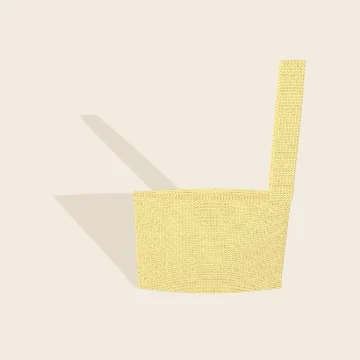
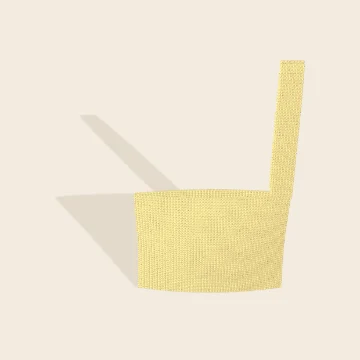
Knitted pieces on a body drawn as knitting (Kim: 실제 니트처럼, 시안 A) and the knit top's round neck
- the 3D of a piece worn on a stand drew every stitch as crochet; a knitted course is now drawn as stockinette:
  each stitch its V, two legs from its head down to the middle of the stitch below so the V's stack in columns,
  the yarn spread to fill the stitch; 겉 1 안 1 rib with the purl stitches as bumps across, set back
- 위에서부터 뜨는 니트 탑: 둥근 목선 (Kim) - the front's last neck rows each gain a stitch at both neck edges before
  the middle is cast on, and a 1 x 1 rib neckband is picked up all round; in the 3D the first rows lie over the
  shoulders and turn down the back and the front, the body hangs straight from the bust, the sleeves start as
  an upright oval filling the armhole, the stand raised on a pole so the hem hangs above the table
- 접어 만드는 대바늘 가방: knitted rows; its cast-on row no longer tied to the fold (a fringe at the top)
- new card photos for both

diff --git a/src/features/yarn3d/worn.ts b/src/features/yarn3d/worn.ts
@@ -215,7 +215,8 @@ function kerchiefForm(p: PlanInput, pp: Plan): Worn {
  *  shoulders, a neck */
 const TORSO: [number, number][] = [[.9, -2.3], [.92, -1.8], [.8, -1.05], [.78, -.8], [.88, -.3], [1, 0], [.97, .3], [.87, .7], [.66, 1.05], [.36, 1.22], [.29, 1.4], [.28, 1.75]];
 export function torsoProfile(r: number, bust: number): [number, number][] {
-  const out: [number, number][] = [[0, Math.max(0, bust + TORSO[0][1] * r)]];
+  // (raised for a long top: a foot and a pole under the hips, as a dress form stands)
+  const yb = Math.max(0, bust + TORSO[0][1] * r), out: [number, number][] = yb > 1.5 ? [[0, 0], [r * .5, 0], [r * .5, .6], [r * .07, 1.2], [r * .07, yb - .2], [0, yb]] : [[0, yb]];
   for (let i = 0; i + 1 < TORSO.length; i++) for (let k = 0; k < 4; k++) { const t = k / 4, a = TORSO[i], b = TORSO[i + 1], s = t * t * (3 - 2 * t); out.push([r * (a[0] + (b[0] - a[0]) * s), Math.max(0, bust + (a[1] + (b[1] - a[1]) * t) * r)]); }
   const last = TORSO[TORSO.length - 1]; out.push([r * last[0], bust + last[1] * r], [0, bust + (last[1] + .04) * r]);
   return out;
@@ -319,17 +320,19 @@ function hull2(pts: [number, number][]): [number, number][] {
 /** the body's section at a height, `off` out from it: walked along from the back (s = 0) towards +x, the front,
  *  -x; a point at `s`, its outward normal, and where an angle (0 the back, as ring() counts) falls */
 interface Sec { L: number; at: (s: number) => [number, number]; nrm: (s: number) => [number, number]; sAt: (a: number) => number }
-function sectionOf(B: Body, y: number, off: number): Sec {
-  const R = torsoR(B.r, B.bust, y), raw: [number, number][] = [];
-  for (let i = 0; i < 120; i++) {
-    const a = i / 120 * TAU, dx = Math.sin(a), dz = -Math.cos(a); let t = R / Math.hypot(dx / TSX, dz / TSZ);
-    for (const [bx, by, bz, rx, ry, rz] of B.bumps) {
-      const f2 = 1 - ((y - by) / ry) ** 2; if (f2 <= 0) continue; const a2 = rx * rx * f2, c2 = rz * rz * f2;
-      const qa = dx * dx / a2 + dz * dz / c2, qb = -2 * (dx * bx / a2 + dz * bz / c2), qc = bx * bx / a2 + bz * bz / c2 - 1, disc = qb * qb - 4 * qa * qc;
-      if (disc > 0) t = Math.max(t, (-qb + Math.sqrt(disc)) / (2 * qa));
-    }
-    raw.push([dx * (t + off), dz * (t + off)]);
+/** how far out from the axis the body's surface is at a height, along a level direction (dx, dz) */
+function rayT(B: Body, y: number, dx: number, dz: number): number {
+  let t = torsoR(B.r, B.bust, y) / Math.hypot(dx / TSX, dz / TSZ);
+  for (const [bx, by, bz, rx, ry, rz] of B.bumps) {
+    const f2 = 1 - ((y - by) / ry) ** 2; if (f2 <= 0) continue; const a2 = rx * rx * f2, c2 = rz * rz * f2;
+    const qa = dx * dx / a2 + dz * dz / c2, qb = -2 * (dx * bx / a2 + dz * bz / c2), qc = bx * bx / a2 + bz * bz / c2 - 1, disc = qb * qb - 4 * qa * qc;
+    if (disc > 0) t = Math.max(t, (-qb + Math.sqrt(disc)) / (2 * qa));
   }
+  return t;
+}
+function sectionOf(B: Body, y: number, off: number): Sec {
+  const raw: [number, number][] = [];
+  for (let i = 0; i < 120; i++) { const a = i / 120 * TAU, dx = Math.sin(a), dz = -Math.cos(a), t = rayT(B, y, dx, dz); raw.push([dx * (t + off), dz * (t + off)]); }
   const h = hull2(raw).map(q => ({ q, a: (Math.atan2(q[0], -q[1]) + TAU) % TAU })).sort((u, v) => u.a - v.a), n = h.length, cum = [0];
   for (let i = 0; i < n; i++) { const a = h[i].q, b = h[(i + 1) % n].q; cum.push(cum[i] + Math.hypot(b[0] - a[0], b[1] - a[1])); }
   const L = cum[n];
@@ -571,13 +574,14 @@ function knitFoldForm(p: PlanInput, pp: Plan): Worn {
   const g = pp.g, B = knitFold(p, g), out: FormCourse[] = [], R = B.L / 2, c = B.W * g.w, y0 = .45, rise = g.h * .98, top = y0 + R * rise;
   const bow = (t: number) => .07 + .36 * Math.sin(Math.PI * Math.min(1, t * .85 + .1));
   const rowAt = (j: number, side: number, n = B.W, from = 0) => { const th = bow((j + .5) / R), rad = c / (2 * th), q: number[] = []; for (let k = from; k < from + n; k++) { const ph = -th + (k + .5) / B.W * 2 * th; q.push(rad * Math.sin(ph), y0 + (j + .5) * rise, side * (rad * (Math.cos(ph) - Math.cos(th)) + .25)); } return q; };
-  out.push({ p: rowAt(0, 1).map((v, i) => (i % 3 === 1 ? y0 : v)), on: -1, ghost: true, cen: [0, top / 2, 0] });
+  // (the panel starts at the front's top - its cast-on row stands on nothing just above it)
+  out.push({ p: rowAt(R - 1, 1).map((v, i) => (i % 3 === 1 ? v + rise : v)), on: -1, ghost: true, cen: [0, top / 2, 0] });
   // the fold is the bottom: the front's rows from it up, then the back's (worked on from the front's last row in the panel; drawn here as they hang)
-  for (let i = 0; i < 2 * R; i++) { const front = i < R, j = front ? R - 1 - i : i - R; out.push({ p: rowAt(j, front ? 1 : -1), on: out.length - 1, cen: [0, y0 + (j + .5) * rise, 0] }); }
+  for (let i = 0; i < 2 * R; i++) { const front = i < R, j = front ? R - 1 - i : i - R; out.push({ p: rowAt(j, front ? 1 : -1), on: out.length - 1, cen: [0, y0 + (j + .5) * rise, 0], kn: "st" }); }
   // the strap: K stitches at the right end, from the front over the side to the back
   const last = out.length - 1, edge = out[last].p, deep = Math.max(.6, Math.abs(edge[Math.floor(B.W / 2) * 3 + 2])), xr = edge[(B.W - 1) * 3], A = archOf(deep + .4, B.SR * g.h);
   let on = last;
-  for (let i = 0; i < B.SR; i++) { const [u, v] = A.at((i + .5) / B.SR * A.len), q: number[] = []; for (let k = 0; k < B.K; k++) q.push(xr - k * g.w, top + v, u); out.push({ p: q, on, cen: [xr - B.K * g.w / 2, top - 3, 0] }); on = out.length - 1; }
+  for (let i = 0; i < B.SR; i++) { const [u, v] = A.at((i + .5) / B.SR * A.len), q: number[] = []; for (let k = 0; k < B.K; k++) q.push(xr - k * g.w, top + v, u); out.push({ kn: "st", p: q, on, cen: [xr - B.K * g.w / 2, top - 3, 0] }); on = out.length - 1; }
   return { courses: out, stand: null, size: [c, 2 * deep, B.h], key: "" };
 }
 /** 위에서부터 뜨는 니트 탑 (Kim: 어깨 경사를 따라, 흐물거리는 편물): on a body, the back's rows down its back from
@@ -586,21 +590,37 @@ function knitFoldForm(p: PlanInput, pp: Plan): Worn {
  *  hem following the body, the ease in soft folds; each sleeve from the shoulder point, down and a little out,
  *  narrowing to its cuff. */
 function knitTopForm(p: PlanInput, pp: Plan): Worn {
-  const g = pp.g, K = knitTop(p, g), out: FormCourse[] = [], r = Math.max(6, K.bust / 6.15), bust = 2.3 * r + 1, body = bodyOf(r, bust), off = .7;
+  // (the body stands high enough for the top's whole length to hang above the table)
+  const g = pp.g, K = knitTop(p, g), out: FormCourse[] = [], r = Math.max(6, K.bust / 6.15), below = pp.rows.filter(x => (x.part === "body" || x.part === "rim") && !/^목둘레/.test(x.label)).length;
+  const bust = Math.max(2.3 * r + 1, K.AR * g.h * .95 + below * g.h + 2 - 1.04 * r), body = bodyOf(r, bust), off = .7;
   const panel = pp.rows.filter(x => x.part === "panel" && x.n > 0 && /단$/.test(x.label)), shTop = bust + 1.04 * r, rh = g.h * .95;
   // a panel's row: its middle at the back (a = 0) or the front (a = PI), on the body from side to side; wider than
   // that it lies looser, in soft folds (`gap`: the front's neck, stitches left out at its middle)
   let reach = 0;
-  const panelRow = (n: number, y: number, a: number, gap = 0): number[] => {
-    const S = sectionOf(body, y, off), s0 = S.sAt(a), dir = a === 0 ? 1 : -1, sR = S.sAt(Math.PI / 2), sL = S.sAt(3 * Math.PI / 2);
-    const lim = Math.min(a === 0 ? sR - s0 : s0 - sR, a === 0 ? s0 + S.L - sL : sL - s0), half = (n + gap) * g.w / 2, c = Math.min(1, lim / half), A = foldDepth(1 / c, 3, 2 * lim, 1.2), q: number[] = [];
+  // (the first rows lie over the top of the shoulders - the shoulder line from the neck out to the shoulder's
+  // tip - and turn down the back or the front row by row, as a yoke sits; the neck is the neck's own width)
+  const neckR = .36 * r + off, TT = Math.max(2, .55 * r / rh);
+  const panelRow = (n: number, y: number, a: number, gap = 0, row = -1): number[] => {
+    const q0 = panelOn(n, y, a, gap), sz = a === 0 ? -1 : 1, t = Math.min(1, Math.max(0, (row + .5) / TT)), sm = t * t * (3 - 2 * t), q: number[] = [];
+    for (let k = 0; k < q0.length; k += 3) {
+      const x = q0[k], ax = Math.abs(x), zt = ax < neckR ? sz * Math.sqrt(neckR * neckR - ax * ax) : sz * .03 * r, yt = bust + 1.1 * r + .4 - Math.max(0, ax - neckR) * .12;
+      // (on the body, never through it: a point the blend put inside the shoulder is pushed out to its surface)
+      const yy = yt + (q0[k + 1] - yt) * sm, zz = zt + (q0[k + 2] - zt) * sm, d = Math.hypot(x, zz) || 1e-6, need = rayT(body, yy, x / d, zz / d) + off * .8, f = d < need ? need / d : 1;
+      q.push(x * f, yy, zz * f);
+    }
+    return q;
+  };
+  const panelOn = (n: number, y: number, a: number, gap = 0): number[] => {
+    const S = sectionOf(body, Math.max(y, bust), off), s0 = S.sAt(a), dir = a === 0 ? 1 : -1, sR = S.sAt(Math.PI / 2), sL = S.sAt(3 * Math.PI / 2);
+    const lim = Math.min(a === 0 ? sR - s0 : s0 - sR, a === 0 ? s0 + S.L - sL : sL - s0), half = (n + gap) * g.w / 2, c = Math.min(1, lim / half), A = 0, q: number[] = [];
     for (let k = 0; k < n; k++) {
       const kk = gap && k >= n / 2 ? k + gap : k, u = (kk - (n + gap - 1) / 2) * g.w * c, [x, z] = S.at(s0 + dir * u), [nx, nz] = S.nrm(s0 + dir * u), d = A * (1 + Math.cos(u / Math.max(1, lim) * 3 * Math.PI)) / 2;
       reach = Math.max(reach, Math.abs(x)); q.push(x + nx * d, y, z + nz * d);
     }
     return q;
   };
-  let under = shTop;
+  let under = shTop, backTop: number[] = [], frontMid: number[] = [];
+  const edgeL: number[][] = [], edgeR: number[][] = [];
   for (const [name, a] of [["뒤판", 0], ["앞판", Math.PI]] as const) {
     const rows = panel.filter(x => x.label.startsWith(name)), front = a !== 0;
     out.push({ p: panelRow(rows[0]?.n ?? K.T, shTop + rh * .5, a), on: -1, ghost: true, cen: [0, shTop, 0] });
@@ -609,22 +629,24 @@ function knitTopForm(p: PlanInput, pp: Plan): Worn {
       const y = shTop - (i + .5) * rh; under = Math.min(under, y - rh * .5);
       // 앞판의 목: the two shoulders worked side by side over the neck's rows - two pieces, nothing across the neck
       if (front && i < K.ND) {
-        const q = panelRow(x.n, y, a, K.neck), h = q.length / 2;
-        out.push({ p: q.slice(0, h), on: L, cen: [0, y, 0] }); L = out.length - 1; out.push({ p: q.slice(h), on: R, cen: [0, y, 0] }); R = out.length - 1;
+        const q = panelRow(x.n, y, a, K.neck, i), h = q.length / 2;
+        out.push({ p: q.slice(0, h), on: L, cen: [0, y, 0], kn: "st" }); L = out.length - 1; out.push({ p: q.slice(h), on: R, cen: [0, y, 0], kn: "st" }); R = out.length - 1;
+        edgeL.push(q.slice(h - 3, h)); edgeR.push(q.slice(h, h + 3));
         if (i === K.ND - 1) { out.push({ p: q, on: -1, ghost: true, cen: [0, y, 0] }); L = R = out.length - 1; }
         return;
       }
-      out.push({ p: panelRow(x.n, y, a), on: L, cen: [0, y, 0] }); L = R = out.length - 1;
+      const q = panelRow(x.n, y, a, 0, i); out.push({ p: q, on: L, cen: [0, y, 0], kn: "st" }); L = R = out.length - 1;
+      if (!front && i === 0) backTop = q; if (front && i === K.ND) frontMid = q;
     });
   }
-  // the body round by round from the underarm down, the hem's rib at its foot: on the body, its ease in folds
-  const rows = pp.rows.filter(x => x.part === "body" || x.part === "rim");
-  out.push({ p: clothRing(body, under + g.h * .5, K.N, g.w, off), on: -1, ghost: true, cen: [0, under, 0] });
-  rows.forEach((x, i) => { const y = under - (i + .5) * g.h; out.push({ p: clothRing(body, y, x.n, g.w, off, i * .04, y, 6), closed: true, on: out.length - 1, cen: [0, y, 0] }); });
+  // the body round by round from the underarm down, the hem's rib at its foot: hanging straight from the bust, its ease in folds
+  const rows = pp.rows.filter(x => (x.part === "body" || x.part === "rim") && !/^목둘레/.test(x.label));
+  out.push({ p: clothRing(body, under + g.h * .5, K.N, g.w, off, 0, Math.max(under, bust), 7, 0), on: -1, ghost: true, cen: [0, under, 0] });
+  rows.forEach((x, i) => { const y = under - (i + .5) * g.h; out.push({ p: clothRing(body, y, x.n, g.w, off, i * .04, Math.max(y, bust), 6, Math.min(1.4, i * .1)), closed: true, on: out.length - 1, cen: [0, y, 0], kn: x.part === "rim" ? "rib" : "st" }); });
   // the sleeves: from the shoulder point, leaving it sideways and turning down and a little out, as an arm hangs
-  const sleeve = pp.rows.filter(x => x.part === "strap" && x.n > 0), Ls = Math.max(4, sleeve.length * g.h);
+  const sleeve = pp.rows.filter(x => x.part === "strap" && x.n > 0), Ls = Math.max(4, sleeve.length * g.h), armH = shTop - under;
   for (const s of [-1, 1]) {
-    const rA = (sleeve[0]?.n ?? K.P) * g.w / TAU, o: V3 = [s * (Math.max(reach, 1.2 * r) + .3), Math.min(shTop - rA * .6, under + rA), 0];
+    const rA = (sleeve[0]?.n ?? K.P) * g.w / TAU, o: V3 = [s * Math.max(reach * .97, 1.12 * r), shTop - armH / 2 - .3, 0];   // (its first round fills the armhole, shoulder to underarm)
     // the line down the sleeve's middle: a curve leaving the armhole sideways, then down and out about 20 degrees
     const P1: V3 = [o[0] + s * rA * .7, o[1] - rA * .2, 0], P2: V3 = [o[0] + s * (rA * .7 + Ls * .34), o[1] - Ls * .94, 0], N = 120, line: V3[] = [], acc = [0];
     for (let i = 0; i <= N; i++) { const t = i / N, u = 1 - t; line.push([u * u * o[0] + 2 * u * t * P1[0] + t * t * P2[0], u * u * o[1] + 2 * u * t * P1[1] + t * t * P2[1], 0]); if (i) acc.push(acc[i - 1] + Math.hypot(line[i][0] - line[i - 1][0], line[i][1] - line[i - 1][1])); }
@@ -632,12 +654,29 @@ function knitTopForm(p: PlanInput, pp: Plan): Worn {
     const ringAt = (n: number, d: number, ph: number): number[] => {
       let i = 1; while (i < N && acc[i] * scale < d) i++; const c = line[i], tx = line[i][0] - line[i - 1][0], ty = line[i][1] - line[i - 1][1], tl = Math.hypot(tx, ty) || 1;
       const ux = -ty / tl * s, uy = tx / tl * s, rad = n * g.w / TAU, q: number[] = [];
-      // (soft: a hanging sleeve settles a little flat front to back, in a few shallow folds)
-      for (let k = 0; k < n; k++) { const a = (k + .5) / n * TAU, R = rad * (1 + .07 * Math.sin(5 * a + d * .25)); q.push(c[0] + ux * Math.cos(a) * R, c[1] + uy * Math.cos(a) * R, Math.sin(a) * R * .9); }
+      // (the armhole is tall and narrow: the first rounds an upright oval as long round as they are, rounding out
+      // down the arm; soft: a hanging sleeve settles a little flat front to back, in a few shallow folds)
+      const e = Math.min(1, d / (8 * g.h)), aH = Math.max(rad, armH / 2), A1 = aH + (rad - aH) * e, B0 = Math.max(.3 * rad, 2 * rad - aH), B1 = B0 + (rad - B0) * e;
+      for (let k = 0; k < n; k++) { const a = (k + .5) / n * TAU, f = 1 + .07 * Math.sin(5 * a + d * .25); q.push(c[0] + ux * Math.cos(a) * A1 * f, c[1] + uy * Math.cos(a) * A1 * f, Math.sin(a) * B1 * f * .9); }
       return q;
     };
     out.push({ p: ringAt(sleeve[0]?.n ?? K.P, 0, 0), on: -1, ghost: true, cen: [o[0], o[1], 0] });
-    sleeve.forEach((x, i) => { const d = (i + .5) * g.h; out.push({ p: ringAt(x.n, d, i), closed: true, on: out.length - 1, cen: [o[0] + s * 3, o[1] - d, 0] }); });
+    sleeve.forEach((x, i) => { const d = (i + .5) * g.h; out.push({ p: ringAt(x.n, d, i), closed: true, on: out.length - 1, cen: [o[0] + s * 3, o[1] - d, 0], kn: /^소맷부리/.test(x.label) ? "rib" : "st" }); });
+  }
+  // 목둘레 (Kim: 둥근 목선): picked up round the neck's edge - the back's middle, down the front's left side, across
+  // its middle, up the right - and its rib rounds standing up from it, drawing in towards the neck
+  const band = pp.rows.filter(x => /^목둘레/.test(x.label) && x.n > 0), pt = (q: number[], k: number): V3 => [q[3 * k], q[3 * k + 1], q[3 * k + 2]];
+  if (band.length && backTop.length && frontMid.length && edgeL.length) {
+    const nb = backTop.length / 3, nf = frontMid.length / 3, path: V3[] = [];
+    for (let k = Math.floor((nb + K.neck) / 2) - 1; k >= Math.floor((nb - K.neck) / 2); k--) path.push(pt(backTop, k));
+    edgeL.forEach(q => path.push(pt(q, 0)));
+    for (let k = Math.floor((nf - K.c0) / 2); k < Math.floor((nf + K.c0) / 2); k++) path.push(pt(frontMid, k));
+    for (let i = edgeR.length - 1; i >= 0; i--) path.push(pt(edgeR[i], 0));
+    const acc = [0]; for (let i = 1; i <= path.length; i++) { const a = path[i - 1], b = path[i % path.length]; acc.push(acc[i - 1] + Math.hypot(b[0] - a[0], b[1] - a[1], b[2] - a[2])); }
+    const Lb = acc[path.length], at = (s: number): V3 => { let i = 1; while (i < path.length && acc[i] < s) i++; const a = path[i - 1], b = path[i % path.length], f = (s - acc[i - 1]) / Math.max(1e-9, acc[i] - acc[i - 1]); return [a[0] + (b[0] - a[0]) * f, a[1] + (b[1] - a[1]) * f, a[2] + (b[2] - a[2]) * f]; };
+    const neckR = .3 * r + 1, ring2 = (n: number, j: number): number[] => { const q: number[] = []; for (let k = 0; k < n; k++) { const [x, y, z] = at((k + .5) / n * Lb), hr = Math.hypot(x, z) || 1, f = Math.min(.8, j / (band.length + 1.5)), nr = hr + (Math.min(hr, Math.max(neckR, hr * .8)) - hr) * f * 2; q.push(x / hr * nr, y + j * g.h * .85, z / hr * nr); } return q; };
+    out.push({ p: ring2(band[0].n, -1), on: -1, ghost: true, cen: [0, shTop, 0] });
+    band.forEach((x, j) => out.push({ p: ring2(x.n, j), closed: true, on: out.length - 1, cen: [0, shTop, 0], kn: j ? "rib" : "st" }));
   }
   return { courses: out, stand: torsoStand(body), size: [2 * Math.max(reach, 1.2 * r) + K.sleeveCm * .7, 2 * r, K.len], key: "" };
 }

diff --git a/lib/knitwear.ts b/lib/knitwear.ts
@@ -80,7 +80,11 @@ export function knitTop(p: Pick<PlanInput, "bust" | "h" | "sleeveCm">, g: Gauge)
   const SRs = Math.max(4, rnd(sleeveCm / g.h)), d = Math.floor((P - cuff) / 2), every = d > 0 ? Math.max(1, Math.floor((SRs - rib) / (d + 1))) : 0;
   // the edge's gain by armhole row r (1-based): what it has gained in all, spread evenly over the armhole's rows
   const gained = (r: number) => Math.round(e * r / AR);
-  return { bust, C, len, sleeveCm, T, neck, S, Half, AR, ND, e, U, N, BR, rib, pick, P, cuff, SRs, d, every, gained };
+  // 둥근 목선 (Kim): the front neck's last `m` rows each gain a stitch at both neck edges, then `c0` are cast on in the
+  // middle - steep near the shoulder, flat at the bottom; the neckband picked up all round it in 1 x 1 rib
+  let m = clamp(rnd(neck * .3), 1, Math.max(1, ND - 1)), c0 = neck - 2 * m; if (c0 < 2) { m = Math.max(0, Math.floor((neck - 2) / 2)); c0 = neck - 2 * m; }
+  const side = along(ND, g) + m, NB = 2 * Math.round((neck + c0 + 2 * side) / 2), NBr = Math.max(3, rnd(2.5 / g.h));
+  return { bust, C, len, sleeveCm, T, neck, S, Half, AR, ND, e, U, N, BR, rib, pick, P, cuff, SRs, d, every, gained, m, c0, side, NB, NBr };
 }
 export function planKnitTop(p: PlanInput, g: Gauge): Plan {
   const K = knitTop(p, g), { T, neck, S, AR, ND, U, N, BR, rib, P, d, every, SRs, gained } = K, rows: Row[] = [];
@@ -96,14 +100,18 @@ export function planKnitTop(p: PlanInput, g: Gauge): Plan {
   }
   rows.push({ part: "panel", n: 0, inc: 0, own: true, label: "뒤판 쉬어 두기", how: `실을 자르고 ${K.Half}코는 쉼코로 둡니다`, why: "몸통에서 앞판과 함께 다시 뜹니다" } as Row);
   // 앞판: the shoulders picked up from the back's cast-on edge, the neck cast on between them
+  const { m, c0 } = K, curve = (r: number) => Math.max(0, r - (ND - m));   // the neck edge's gain by row r
   for (let r = 1; r <= AR; r++) {
-    const dd = gained(r) - gained(r - 1), sh = S + gained(r), n = r <= ND ? 2 * sh : T + 2 * gained(r);
+    const dd = gained(r) - gained(r - 1), nk = r <= ND && curve(r) > curve(r - 1) ? 1 : 0, sh = S + gained(r) + curve(Math.min(r, ND)), n = r <= ND ? 2 * sh : T + 2 * gained(r);
+    const face = `${r % 2 ? "겉면: 겉뜨기" : "안면: 안뜨기"}로`;
     const how = r === 1 ? `뒤판 코잡기 가장자리의 양 끝에서 어깨 ${S}코씩 주워 두 어깨를 함께 뜹니다 (가운데 ${neck}코는 목 자리로 비웁니다)`
-      : r === ND + 1 ? `왼쪽 어깨 ${sh - dd}코, 목 코 ${neck}코 만들기, 오른쪽 어깨 ${sh - dd}코를 이어 한 판으로 뜨며 양 끝에서 ${dd}코씩 늘리기 (${n}코)`
-      : dd ? `${r % 2 ? "겉면: 겉뜨기" : "안면: 안뜨기"}로 뜨며 양 끝에서 ${dd}코씩 늘리기 (${n}코)` : flatRow(r - 1, n);
+      : r === ND + 1 ? `왼쪽 어깨 ${sh - dd}코, 목 코 ${c0}코 만들기, 오른쪽 어깨 ${sh - dd}코를 이어 한 판으로 뜨며 양 끝에서 ${dd}코씩 늘리기 (${n}코)`
+      : nk ? `${face} 뜨며 두 어깨의 목 쪽 가장자리에서 1코씩${dd ? `, 바깥 끝에서 ${dd}코씩` : ""} 늘리기 (어깨마다 ${sh}코)`
+      : dd ? `${face} 뜨며 양 끝에서 ${dd}코씩 늘리기 (${n}코)` : flatRow(r - 1, n);
     const why = r === 1 ? `어깨 = (${T} - 목 ${neck}) ÷ 2 = ${S}코 · 목 너비 ${fmt(K.C)}cm × ${TOP.neck} ÷ 코 너비 · 목 깊이 ${ND}단(${fmt(K.C)}cm × ${TOP.neckDrop})`
-      : r === ND + 1 ? `어깨 둘 + 목 ${neck}코 = ${n}코 · 여기서부터 앞판이 한 판입니다` : dd ? `양 끝 늘림 ${2 * dd}` : `${n}코 그대로`;
-    rows.push({ part: "panel", n, inc: r === ND + 1 ? neck + 2 * dd : 2 * dd, own: true, edge: [dd, dd], label: `앞판 ${r}단`, how, why } as Row);
+      : r === ND - m + 1 && nk ? `둥근 목선 · 마지막 ${m}단 동안 목 쪽에서 1코씩, 목 ${neck}코 중 ${2 * m}코를 늘려서 채웁니다`
+      : r === ND + 1 ? `어깨 둘 + 목 가운데 ${c0}코 = ${n}코 · (목 ${neck} = 늘림 ${2 * m} + 가운데 ${c0}) · 여기서부터 앞판이 한 판입니다` : nk ? `목 쪽 늘림 2${dd ? ` · 바깥 늘림 ${2 * dd}` : ""}` : dd ? `양 끝 늘림 ${2 * dd}` : `${n}코 그대로`;
+    rows.push({ part: "panel", n, inc: r === ND + 1 ? c0 + 2 * dd : 2 * dd + 2 * nk, own: true, edge: [dd, dd], label: `앞판 ${r}단`, how, why } as Row);
   }
   // 몸통: front and back joined under the arms, worked round
   rows.push({ part: "body", n: N, inc: 0, own: true, label: "몸통 1단", how: `앞판 ${K.Half}코, 겨드랑이 코 ${U}코 만들기, 뒤판 쉼코 ${K.Half}코, 겨드랑이 코 ${U}코 만들기로 이어 둘레로 겉뜨기 (${N}코)`,
@@ -122,5 +130,10 @@ export function planKnitTop(p: PlanInput, g: Gauge): Plan {
   }
   for (let i = 1; i <= rib; i++) rows.push({ part: "strap", n, inc: 0, own: true, label: `소맷부리 ${i}단`, how: `겉 1, 안 1 고무뜨기 ${n}코` + (i === rib ? " · 다 뜨면 고무뜨기대로 코막음" : ""), why: i === 1 ? `소매 길이 ${fmt(K.sleeveCm)}cm ÷ 코 높이 = ${SRs}단 가운데 마지막 ${rib}단` : `${n}코 그대로` } as Row);
   rows.push({ part: "finish", n: 0, inc: 0, own: true, label: "소매 하나 더", how: "같은 방법으로 반대쪽 소매를 뜹니다", why: "코 수와 단 수는 위의 소매와 같습니다" } as Row);
+  // 목둘레: picked up all round the neck, 1 x 1 rib
+  rows.push({ part: "rim", n: K.NB, inc: 0, own: true, label: "목둘레 코 줍기", how: `뒷목 ${neck}코, 앞목 왼쪽 가장자리 ${K.side}코, 앞 가운데 ${c0}코, 오른쪽 가장자리 ${K.side}코를 주워 둘레로 뜹니다 (${K.NB}코)`,
+    why: `앞목 옆선 ${ND}단에서 ${along(ND, g)}코 + 늘린 ${m}코 = ${K.side}코 · 겉 1, 안 1 고무뜨기라 짝수로 맞춥니다` } as Row);
+  for (let i = 1; i <= K.NBr; i++) rows.push({ part: "rim", n: K.NB, inc: 0, own: true, label: `목둘레 ${i}단`, how: `겉 1, 안 1 고무뜨기 ${K.NB}코` + (i === K.NBr ? " · 다 뜨면 고무뜨기대로 느슨하게 코막음" : ""),
+    why: i === 1 ? `목둘레 고무단 2.5cm ÷ 코 높이 ${mm(g.h)}mm = ${K.NBr}단` : `${K.NB}코 그대로` } as Row);
   return { g, c: T, rows: number(rows), bottomRounds: 0, bodyRows: BR, last: N };
 }

diff --git a/src/features/yarn3d/engine.ts b/src/features/yarn3d/engine.ts
@@ -41,7 +41,8 @@ export type YarnStrap = "none" | "two" | "long" | "wrist" | "pack";
  *  drawn as a strand), the point the fabric faces away from, and - when they are not the piece's own - the
  *  stitches drawn (one for the course or one a stitch) and their colours' indexes. `ghost`: not drawn, only
  *  stood on. */
-export interface FormCourse { p: number[]; closed?: boolean; on: number; ghost?: boolean; cen: [number, number, number]; ci?: number; cols?: number[]; ty?: WallStitch | WallStitch[] }
+export interface FormCourse { p: number[]; closed?: boolean; on: number; ghost?: boolean; cen: [number, number, number]; ci?: number; cols?: number[]; ty?: WallStitch | WallStitch[];
+  /** knitted (Kim: 실제 니트처럼): its stitches drawn as knit loops, one strand along the row - "st" 메리야스, "rib" 겉 1 안 1 */ kn?: "st" | "rib" }
 /** what a piece is shown on (Kim: 모자·후드는 머리 모양 받침 위에, 보틀백은 병 모양 받침 위에 - 아주 연한 색): a lathe's
  *  outline, [radius, height] in cm from the table up. `fitTo`: the piece's own width (cm) the outline was drawn
  *  for - a piece the engine settles itself (a bottle's bag) is measured, and the stand made to that measure. */
@@ -263,7 +264,7 @@ export function stitchCount(s: YarnShape): number {
 
 type Edge = [number, number, number, number];
 type Bot = [number, number, number];
-interface Course { idx: number[]; closed: boolean; bot: Bot[] | null; ci: number; /** a round of the body (the wall), not the bottom */ body?: boolean;
+interface Course { idx: number[]; closed: boolean; bot: Bot[] | null; ci: number; kn?: "st" | "rib"; /** a round of the body (the wall), not the bottom */ body?: boolean;
   /** a form's course (FormCourse): the point its fabric faces away from, its stitches and their colours when they are its own */
   cen?: THREE.Vector3; cols?: number[]; ty?: WallStitch | WallStitch[] }
 interface Knit { type: "flat" | "tube"; W: number; H: number; swap: boolean; wk: number; rk: number; rho: number; R: number }
@@ -750,7 +751,7 @@ export function createYarnViewer(canvas: HTMLCanvasElement, first: YarnPattern, 
         const idx = at[k], below = c.on >= 0 ? at[c.on] : null; let bot: Bot[] | null = null;
         if (below && below.length) bot = idx.map(n => { let b = below[0], bd = 1e9; for (const m of below) { const d = P[n].distanceToSquared(P[m]); if (d < bd) { bd = d; b = m; } } E.push([n, b, Math.sqrt(bd), 1]); return [b, b, 0] as Bot; });
         for (let i = 0; i + (c.closed ? 0 : 1) < idx.length; i++) E.push([idx[i], idx[(i + 1) % idx.length], sw, 1]);
-        C.push({ idx, closed: !!c.closed, bot, ci: c.ci ?? 0, cen: new THREE.Vector3(c.cen[0] * U, c.cen[1] * U, c.cen[2] * U), ...(c.cols ? { cols: c.cols } : {}), ...(c.ty ? { ty: c.ty } : {}) });
+        C.push({ idx, closed: !!c.closed, bot, ci: c.ci ?? 0, cen: new THREE.Vector3(c.cen[0] * U, c.cen[1] * U, c.cen[2] * U), ...(c.cols ? { cols: c.cols } : {}), ...(c.ty ? { ty: c.ty } : {}), ...(c.kn ? { kn: c.kn } : {}) });
       });
       fixed = true; form = true;
     } else {
@@ -914,6 +915,10 @@ export function createYarnViewer(canvas: HTMLCanvasElement, first: YarnPattern, 
       const tops = c.idx.map(n => D.P[n].clone()), saw: THREE.Vector3[] = [];
       let cx0 = 0, cz0 = 0; tops.forEach(q => { cx0 += q.x; cz0 += q.z; }); cx0 /= tops.length || 1; cz0 /= tops.length || 1;
       const ridgeRow = (!!pat.ridge && (c.closed || ci % 2 === 0)) || (!!pat.crease && ci === firstBody), ridgeIn = !pat.ridge && pat.crease === "front";
+      // a knitted row (a form's, Kim: 실제 니트처럼 - 메리야스, 시안 A): each stitch its V - two legs from the row's
+      // head down to the middle of the stitch below, the next row's legs starting where these end, so the V's stack
+      // in columns as stockinette does; in rib (겉 1 안 1) the purl stitches are a bump across, set back
+      const knitSt = !!(c.kn && c.bot && loops);
       if (c.bot && loops) {
         const color = colorOf(c.ci), wr = wl && c.body ? (bodyN++ * (D.skip?.row ?? 1)) % wl.H : -1;
         for (let i = 0; i < c.idx.length; i++) {
@@ -933,6 +938,13 @@ export function createYarnViewer(canvas: HTMLCanvasElement, first: YarnPattern, 
           if (c.cen && out.dot(t.clone().sub(c.cen)) < 0) out.negate(); // a form's fabric faces away from its own middle
           if (ridgeRow) t.addScaledVector(out, ridgeIn ? -R * 1.1 : R * 1.1);
           const P = (u: number, v: number, w: number) => t.clone().addScaledVector(al, u * sw).addScaledVector(up, v * h).addScaledVector(out, w * R);
+          if (knitSt) {
+            // (knitted fabric is closed: its yarn spreads and fluffs to fill the stitch - two legs about a stitch wide)
+            const Rk = Math.max(R, .2 * sw), wF = Rk / R * .9;
+            if (c.kn === "rib" && i % 2 === 1) for (const v of [-.2, -.65]) strand([P(-.55, v - .2, -wF * .3), P(0, v, wF * .1), P(.55, v - .2, -wF * .3)], Rk, col);
+            else for (const k of [-1, 1]) strand([P(k * .45, .25, wF * .6), P(k * .24, -.4, wF * (c.kn === "rib" ? 1.3 : 1)), P(k * .04, -1, wF * .5)], Rk, col);
+            continue;
+          }
           // the head: front half up over the fabric, back half under, wider than the stitch so the next one's hooks into it
           // 사슬 over a gap (mesh, net, moss): a chain lying along the row at the head's height, nothing below - a hole
           drawSt(ty, col, P);

diff --git a/tests/pattern-plus.test.ts b/tests/pattern-plus.test.ts
@@ -161,7 +161,10 @@ describe("기본형 4종", () => {
       expect(back.length).toBe(K.AR); expect(front.length).toBe(K.AR);
       expect(back[back.length - 1].n).toBe(K.Half); expect(front[front.length - 1].n).toBe(K.Half);
       back.forEach((r, i) => { if (i) expect(r.n - back[i - 1].n).toBe(2 * r.edge![0]); });
-      expect(front[0].how).toContain(`어깨 ${K.S}코씩 주워`); expect(front[K.ND].how).toContain(`목 코 ${K.neck}코 만들기`); expect(front[K.ND].n).toBe(back[K.ND].n);
+      expect(front[0].how).toContain(`어깨 ${K.S}코씩 주워`); expect(front[K.ND].how).toContain(`목 코 ${K.c0}코 만들기`); expect(front[K.ND].n).toBe(back[K.ND].n);
+      // 둥근 목선: the neck's stitches = the curve's gains + the middle cast on; each shoulder gains at its neck edge in the last rows
+      expect(2 * K.m + K.c0).toBe(K.neck); expect(front[K.ND - 1].n).toBe(2 * (K.S + K.gained(K.ND) + K.m));
+      const nb = pp.rows.filter(r => /^목둘레/.test(r.label)); expect(nb.length).toBe(K.NBr + 1); expect(K.NB % 2).toBe(0);
       const body = pp.rows.filter(r => r.part === "body"); expect(body[0].n).toBe(K.N); expect(body.length).toBe(K.BR);
       const sl = pp.rows.filter(r => r.part === "strap"); expect(sl[0].n).toBe(K.P); expect(K.P).toBe(K.pick + K.U);
       expect(sl.filter(r => r.inc === -2).length).toBe(K.d); expect(sl[sl.length - 1].n).toBe(K.P - 2 * K.d);

diff --git a/tests/wear-shapes.test.ts b/tests/wear-shapes.test.ts
@@ -66,3 +66,17 @@ describe("바라클라바: 머리를 따라 흐물거리게", () => {
     }
   });
 });
+
+describe("몸에 입힌 니트 (Kim: 실제 니트처럼, 시안 A · 둥근 목선)", () => {
+  it("every course of the knit top and the folded knit bag is knitted - rib at the hem, the cuffs and the neckband", () => {
+    for (const id of ["knittop", "knitfold"]) {
+      const p = starter(id), f = wornForm(p, plan(p))!, real = f.courses.filter(c => !c.ghost && c.p.length >= 6 && c.on >= 0);
+      expect(real.every(c => c.kn === "st" || c.kn === "rib")).toBe(true);
+      if (id === "knittop") expect(real.filter(c => c.kn === "rib").length).toBeGreaterThan(6);
+    }
+  });
+  it("the knit top's hem hangs above the table and every point is a number", () => {
+    const p = starter("knittop"), f = wornForm(p, plan(p))!;
+    for (const c of f.courses) for (let i = 0; i < c.p.length; i += 3) { expect(Number.isFinite(c.p[i] + c.p[i + 1] + c.p[i + 2])).toBe(true); if (!c.ghost) expect(c.p[i + 1]).toBeGreaterThan(0); }
+  });
+});
